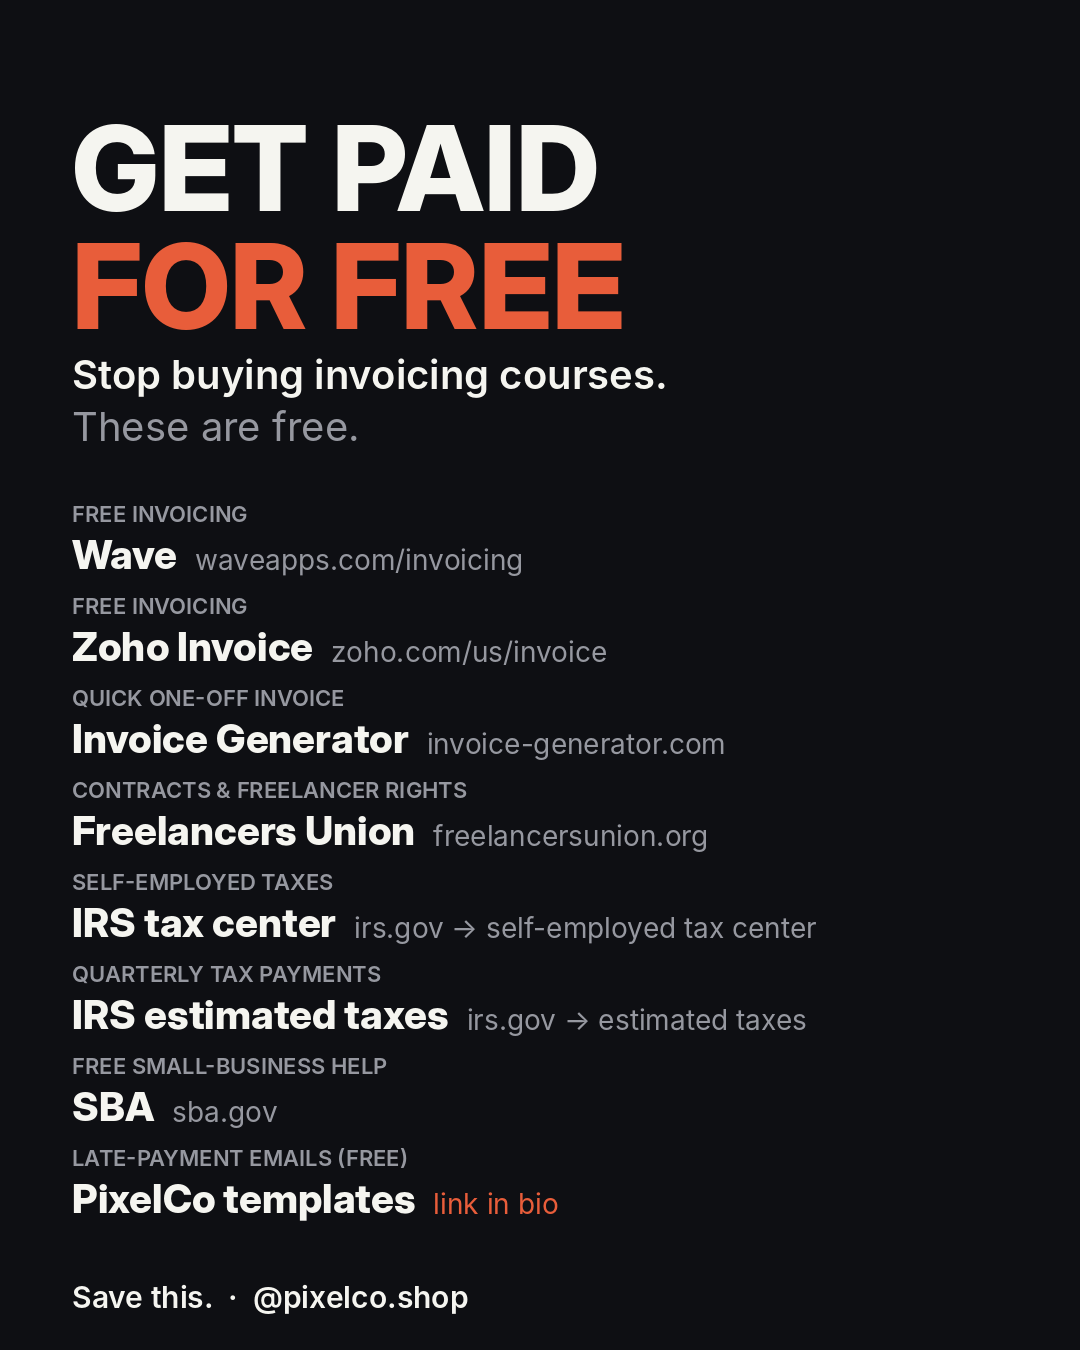
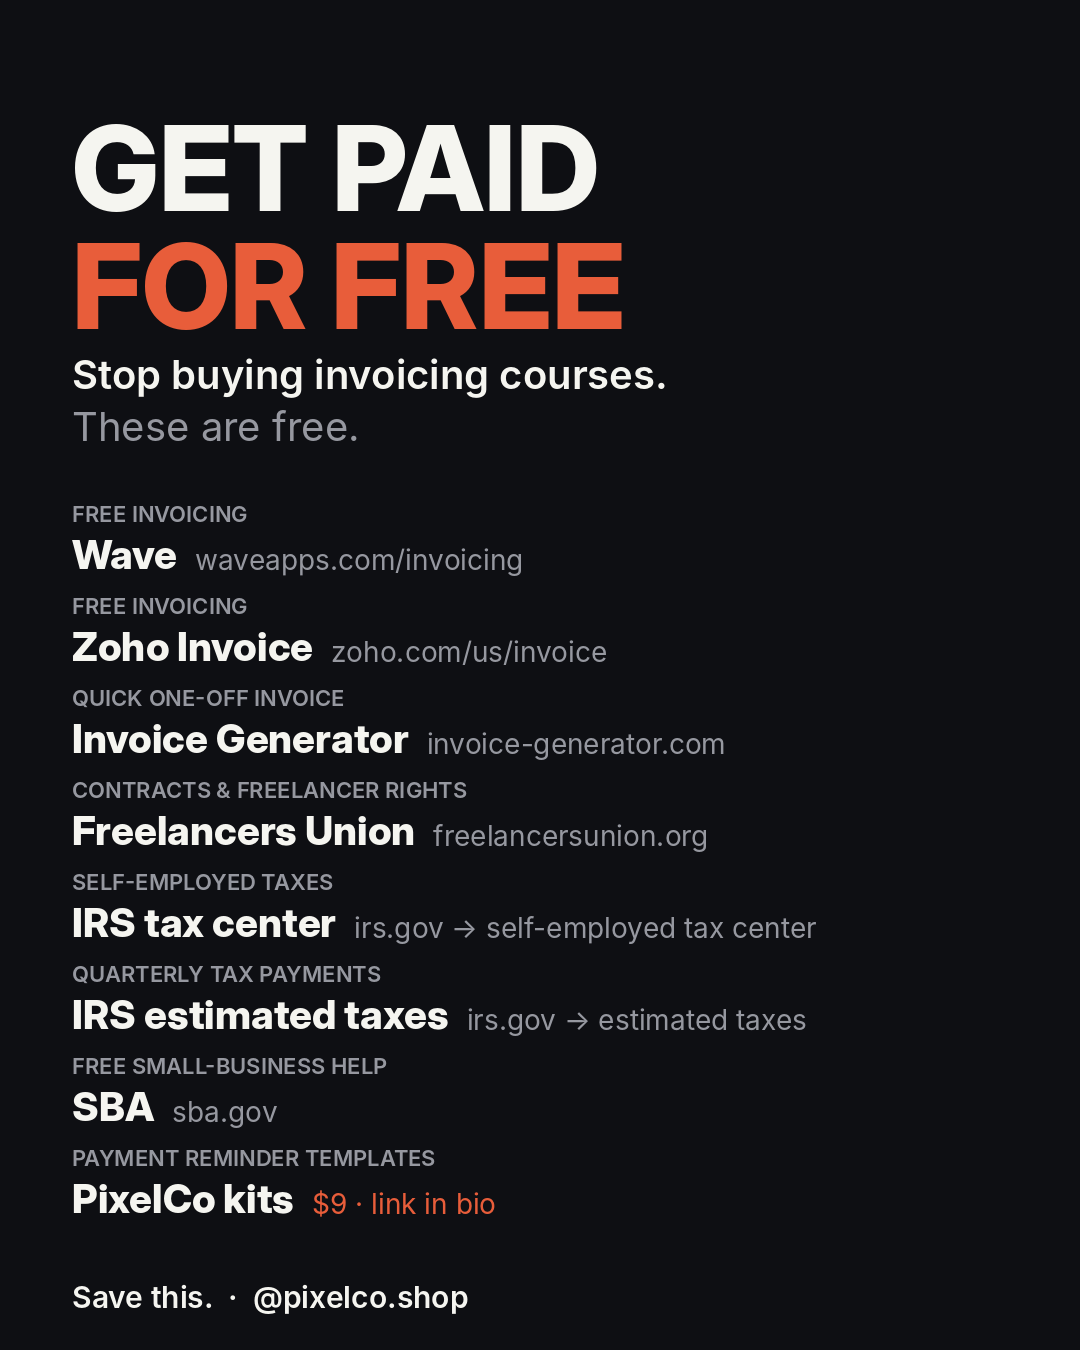
Free-tools image: label PixelCo kits as $9, not free
Claude-Session: https://claude.ai/code/session_01DPpuRm8Q5E3qe8idcSRGqU

Changed region(s): [[0.2139, 0.84, 0.5194, 0.9022], [0.0917, 0.84, 0.1833, 0.8711]]

diff --git a/docs/funnel/free_tools_image.py b/docs/funnel/free_tools_image.py
@@ -14,7 +14,7 @@ ITEMS = [
     ("Self-employed taxes", "IRS tax center", "irs.gov → self-employed tax center"),
     ("Quarterly tax payments", "IRS estimated taxes", "irs.gov → estimated taxes"),
     ("Free small-business help", "SBA", "sba.gov"),
-    ("Late-payment emails (free)", "PixelCo templates", "link in bio"),
+    ("Payment reminder templates", "PixelCo kits", "$9 · link in bio"),
 ]
 im = Image.new("RGB", (W, H), INK); d = ImageDraw.Draw(im)
 d.text((72, 96), "GET PAID", font=B(118), fill=WHITE)
@@ -26,7 +26,7 @@ for what, name, url in ITEMS:
     d.text((72, y), what.upper(), font=M(22), fill=DIM)
     d.text((72, y + 30), name, font=B(40), fill=WHITE)
     tw = d.textlength(name, font=B(40))
-    d.text((72 + tw + 18, y + 42), url, font=R(28), fill=ACC if name == "PixelCo templates" else DIM)
+    d.text((72 + tw + 18, y + 42), url, font=R(28), fill=ACC if name == "PixelCo kits" else DIM)
     y += 92
 d.text((72, H - 72), "Save this.  ·  @pixelco.shop", font=M(30), fill=WHITE)
 im.save("site/social/get-paid-for-free-1080x1350.png")
